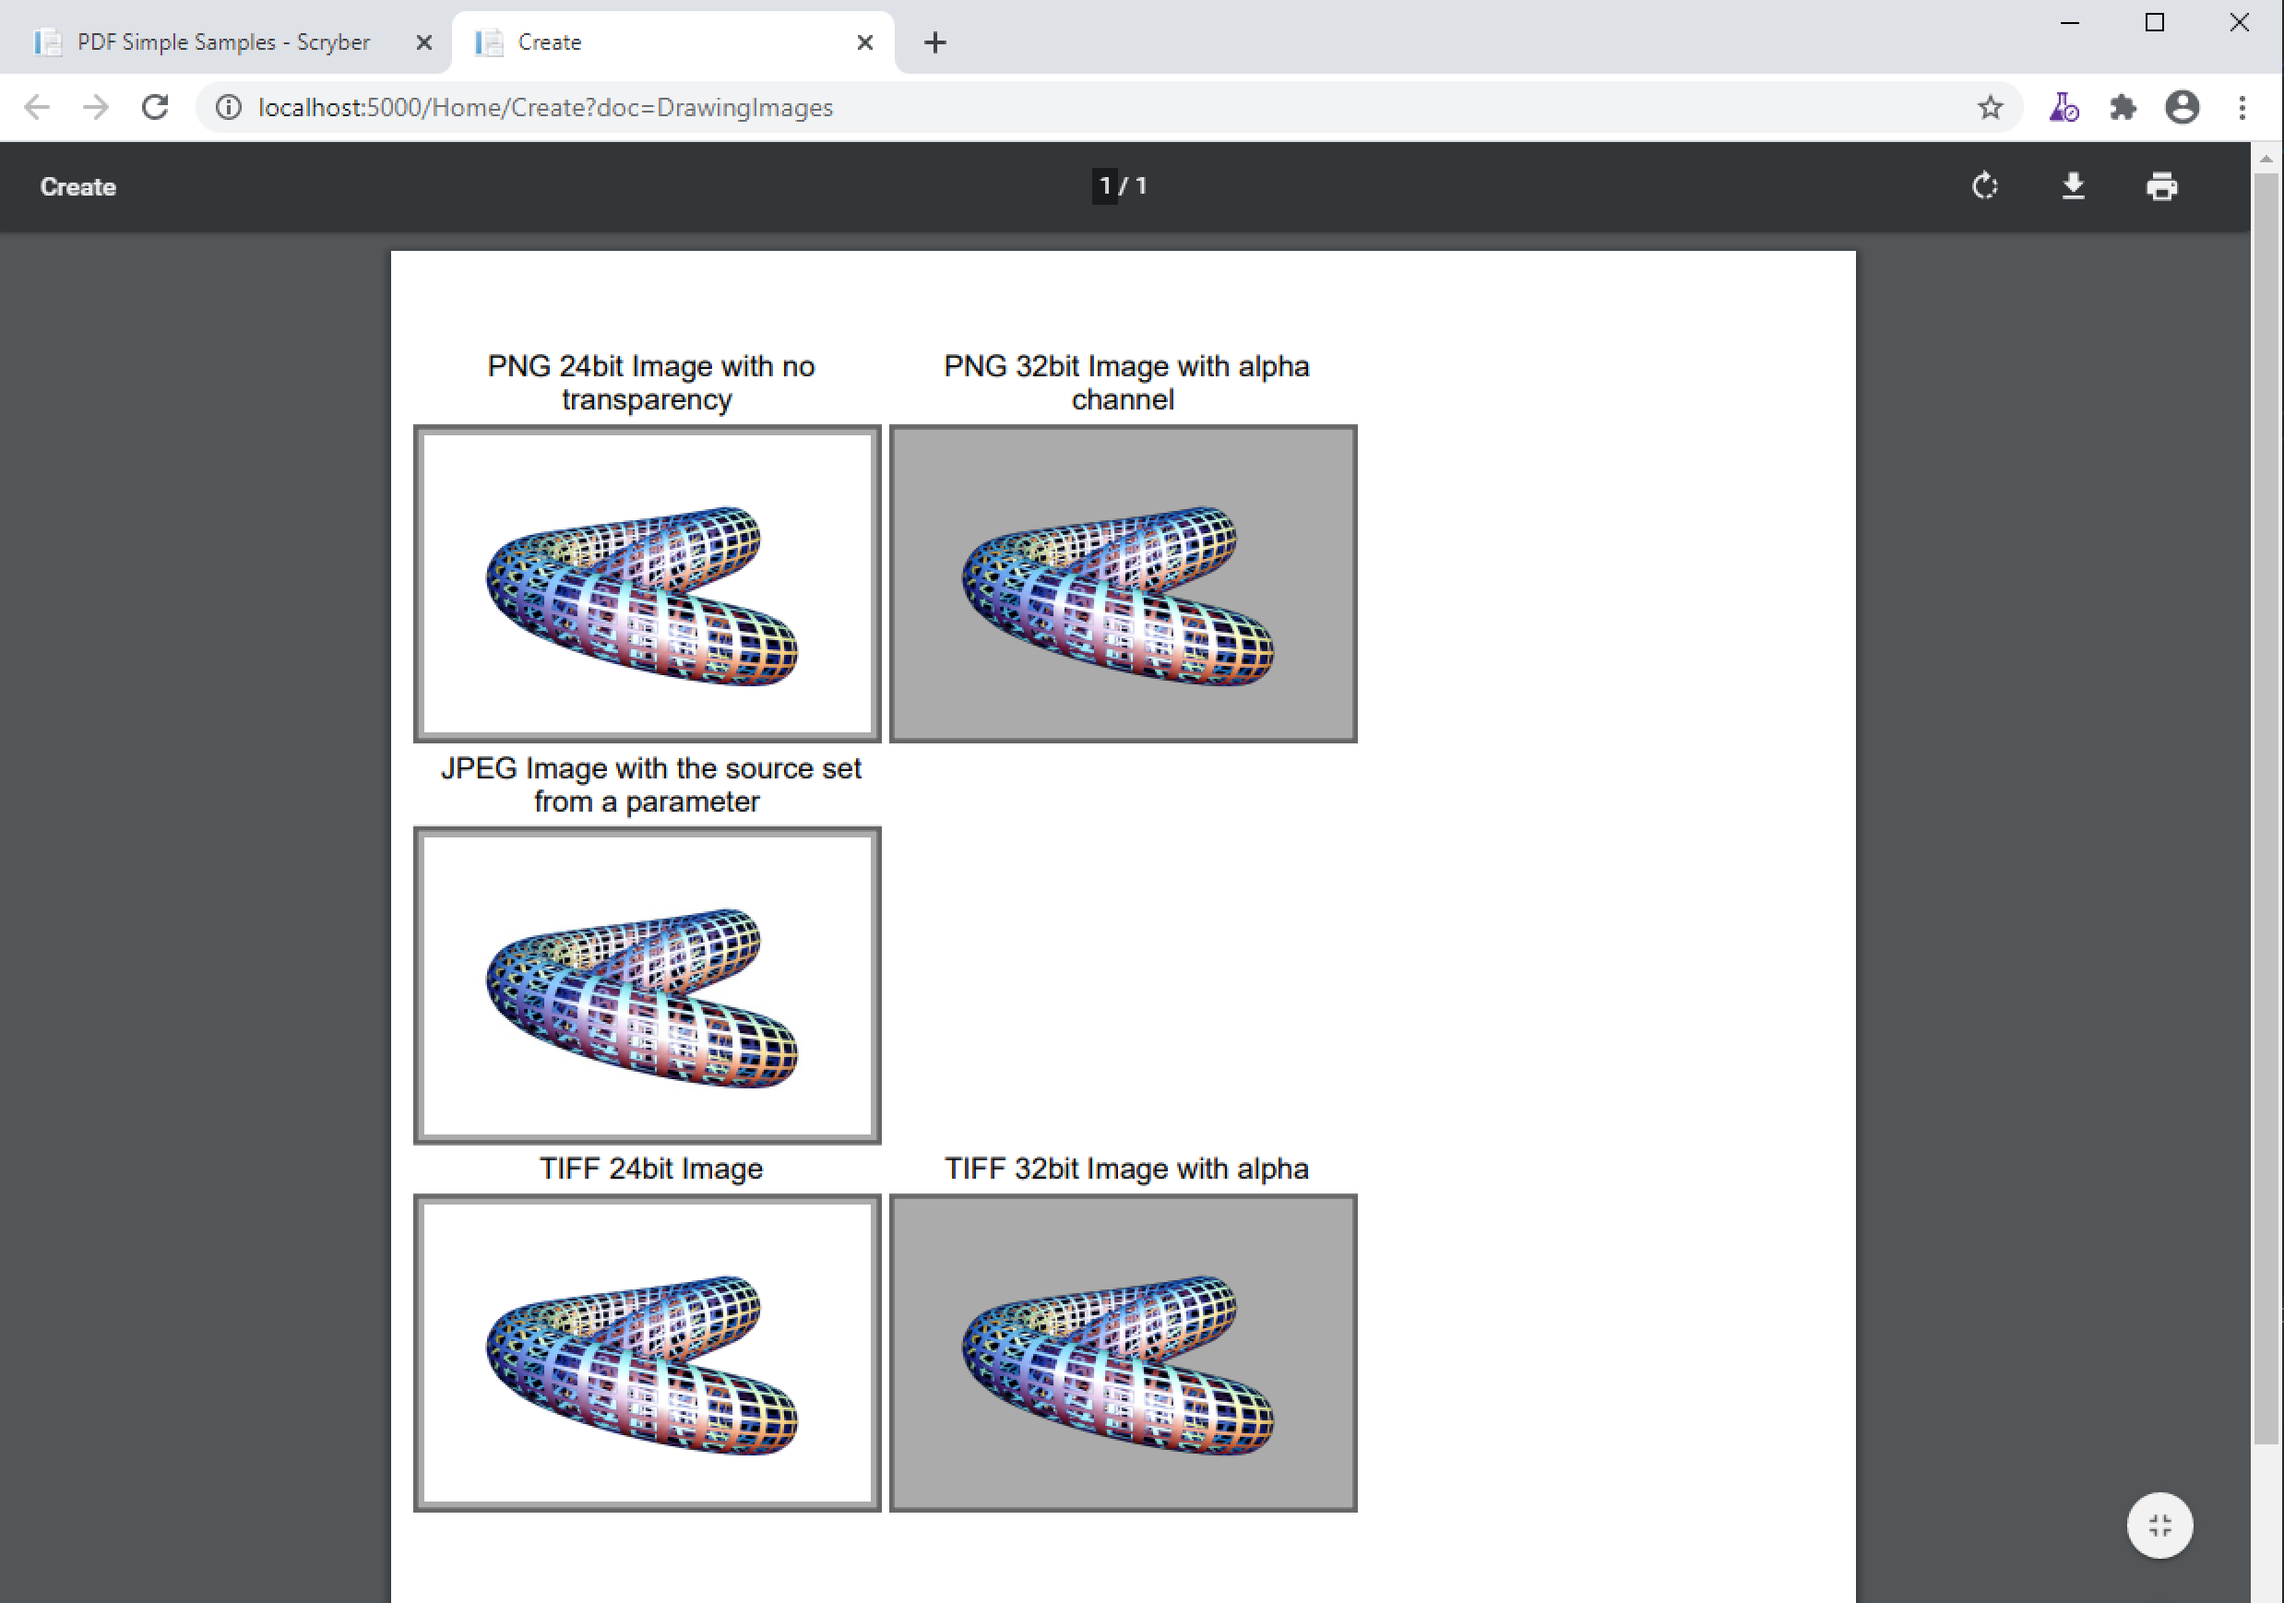
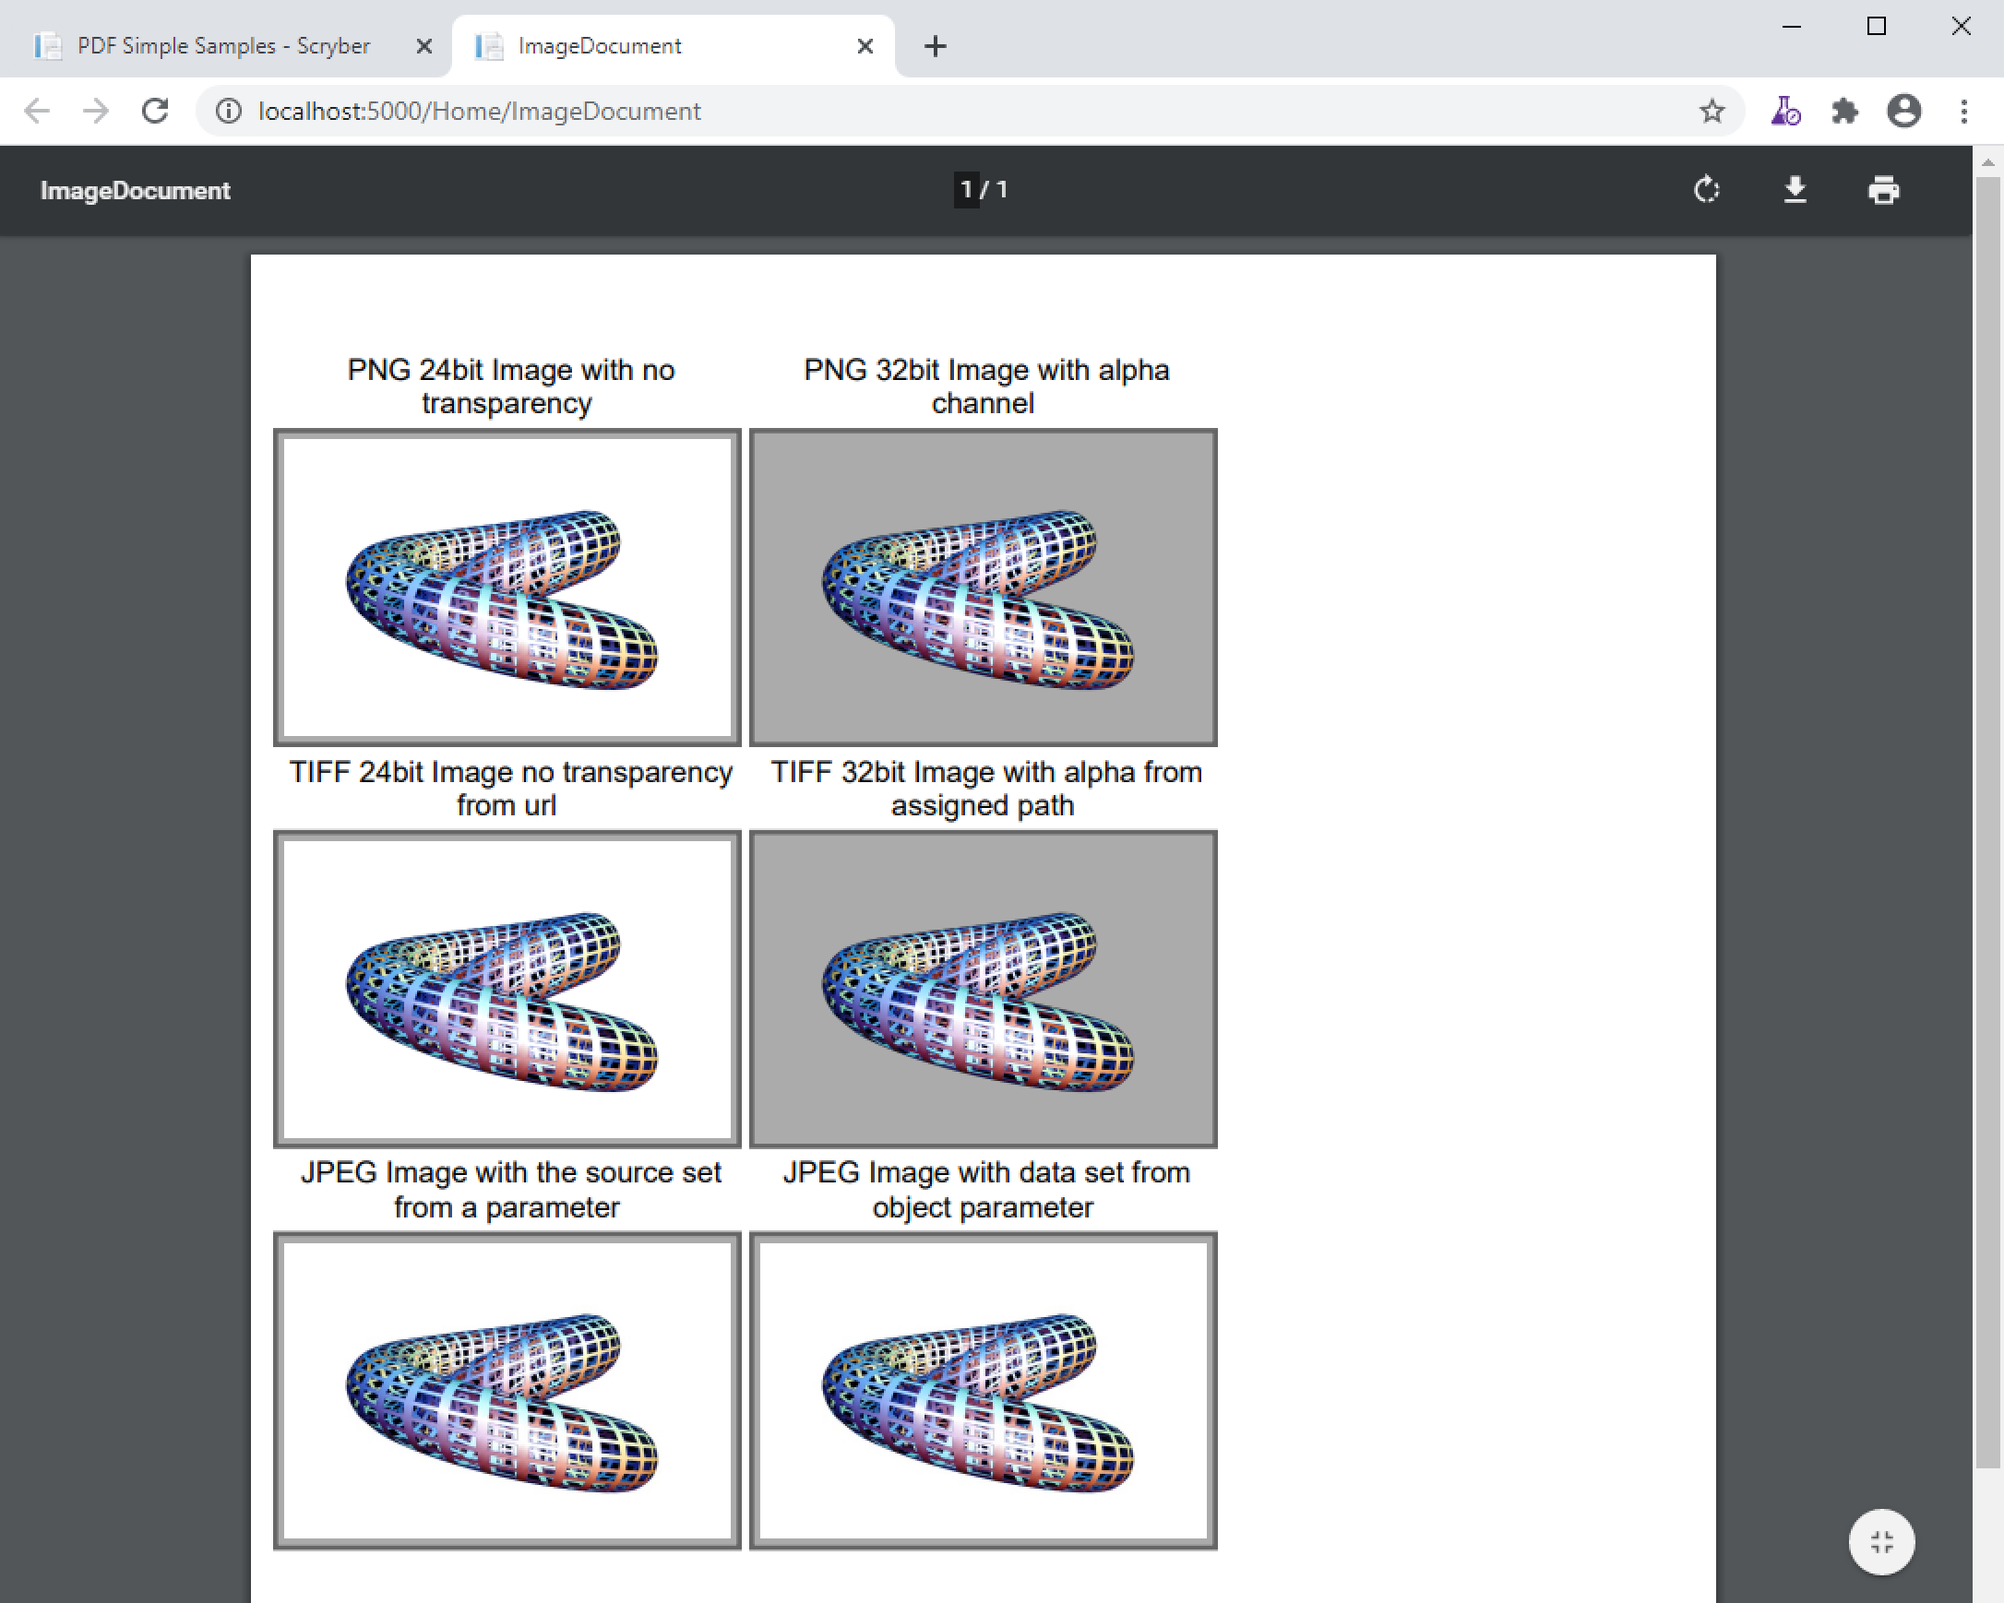
Image binding tests and updates to the image documents

diff --git a/Scryber.Core.UnitTest/Binding/ImageBinding_Test.cs b/Scryber.Core.UnitTest/Binding/ImageBinding_Test.cs
@@ -1,10 +1,84 @@
 using System;
-namespace Scryber.UnitTests.Binding
+using System.Net.WebSockets;
+using Microsoft.Extensions.Configuration;
+using Microsoft.VisualStudio.TestTools.UnitTesting;
+using Scryber.Components;
+
+namespace Scryber.Core.UnitTests.Binding
 {
+    [TestClass()]
     public class ImageBinding_Test
     {
+
+        private TestContext testContextInstance;
+
+        /// <summary>
+        ///Gets or sets the test context which provides
+        ///information about and functionality for the current test run.
+        ///</summary>
+        public TestContext TestContext
+        {
+            get
+            {
+                return testContextInstance;
+            }
+            set
+            {
+                testContextInstance = value;
+            }
+        }
+
+
         public ImageBinding_Test()
         {
+        }
+
+        [TestMethod]
+        public void ImageParamerterBinding()
+        {
+
+            var pdfx = @"<?xml version='1.0' encoding='utf-8' ?>
+<pdf:Document xmlns:pdf='http://www.scryber.co.uk/schemas/core/release/v1/Scryber.Components.xsd'
+              xmlns:styles='http://www.scryber.co.uk/schemas/core/release/v1/Scryber.Styles.xsd'
+              xmlns:data='http://www.scryber.co.uk/schemas/core/release/v1/Scryber.Data.xsd' >
+  <Params>
+    <pdf:Object-Param id='MyImage' />
+  </Params>
+  <Pages>
+
+    <pdf:Page styles:margins='20pt'>
+      <Content>
+        <pdf:Image id='LoadedImage' img-data='{@:MyImage}' />
+        
+      </Content>
+    </pdf:Page>
+  </Pages>
+
+</pdf:Document>";
+
+            using (var reader = new System.IO.StringReader(pdfx))
+            {
+                var doc = PDFDocument.ParseDocument(reader, ParseSourceType.DynamicContent);
+
+                var path = this.TestContext.TestDir;
+
+                // back up from obj/Debug/TestDirectoryName
+                path = System.IO.Path.Combine(path, "../../../Content/Toroid24.jpg");
+
+                var data = Scryber.Drawing.PDFImageData.LoadImageFromLocalFile(doc, doc, path);
+                doc.Params["MyImage"] = data;
+
+                var img = doc.FindAComponentById("LoadedImage") as PDFImage;
+                Assert.IsNull(img.Data);
+
+                doc.InitializeAndLoad();
+                doc.DataBind();
+
+                
+                Assert.IsNotNull(img.Data);
+                Assert.AreEqual(data, img.Data);
+
+            }
         }
     }
 }

diff --git a/Scryber.Core.UnitTest/Configuration/SetConfig_Test.cs b/Scryber.Core.UnitTest/Configuration/SetConfig_Test.cs
@@ -3,7 +3,7 @@ using Microsoft.VisualStudio.TestTools.UnitTesting;
 using Microsoft.Extensions.Configuration;
 using System.IO;
 
-namespace Scryber.UnitTests.Configuration
+namespace Scryber.Core.UnitTests.Configuration
 {
     /// <summary>
     /// Tests the configuration with any appsettings.json

diff --git a/Scryber.Core.UnitTest/Generation/TableHead_Test.cs b/Scryber.Core.UnitTest/Generation/TableHead_Test.cs
@@ -6,7 +6,7 @@ using System.Threading.Tasks;
 using Microsoft.VisualStudio.TestTools.UnitTesting;
 using Scryber.Components;
 
-namespace Scryber.UnitTests.Generation
+namespace Scryber.Core.UnitTests.Generation
 {
     [TestClass()]
     public class TableHead_Test

diff --git a/Scryber.Core.UnitTest/Configuration/BaseConfig_Test.cs b/Scryber.Core.UnitTest/Configuration/BaseConfig_Test.cs
@@ -1,7 +1,7 @@
 using System;
 using Microsoft.VisualStudio.TestTools.UnitTesting;
 
-namespace Scryber.UnitTests.Configuration
+namespace Scryber.Core.UnitTests.Configuration
 {
     /// <summary>
     /// Tests the configuration without any appsettings.json

diff --git a/docs/drawing_images.rst b/docs/drawing_images.rst
@@ -12,11 +12,10 @@ Scryber supports most standard image types, including the following.
 Adding an image to the output is as simple as putting an `<pdf:Image src='[path]' />` in the template.
 If the image has an alpha channel this will automatically be applied to the image.
 
-Rendering an image.
+Image Source Paths.
 =============================
 
-
-Images paths can be referenced relative to the file path of the parsed document.
+THe source for an image path can be referenced relative to the current file being parsed.
 
 e.g. ../../Content/images/filename.ext
 
@@ -25,9 +24,66 @@ Or it can be the full url or full file path to the image.
 e.g. http://localhost:5000/images/Toroid32.tiff
 
 
-The path can even be specified in a parameter.
-
 .. note:: If the image component is declared on a file referenced from the document, then the image path should still be relative to the file where the image component is declared. Not the top level document. 
+
+Explicit image data
+===================
+
+Data can be set on the image explicitly when loaded, using the Scryber.Drawing.PDFImageData class.
+This class has a range of static methods to load the images from existing bitmaps, local files or streams.
+
+And the image data can then be assigned to an image component directly, or via an object parameter
+
+Image Sizing
+============
+
+Without an explicit size the images will be rendered at the natural size, if it fits in the container. 
+
+If it does not fit in the container it will be reduced in size to fit. 
+See :doc:`component_sizing` for more about sizing images with widths and heights.
+
+
+Rendering Images
+=================
+
+Once the path or data are set, it's just a case of rendering the document in the normal way.
+
+.. code-block:: csharp
+
+        public IActionResult ImageDocument()
+        {
+            var root = _env.ContentRootPath;
+            var path = System.IO.Path.Combine(root, "Views", "PDF", "DrawingImages.pdfx");
+            path = System.IO.Path.GetFullPath(path);
+
+            using(var doc = PDFDocument.ParseDocument(path))
+            {
+                var images = System.IO.Path.Combine(root, "Content", "Images");
+                
+                //Set the source Directly
+                (doc.FindAComponentById("tiff32") as PDFImage).Source = System.IO.Path.Combine(images, "Toroid32.tiff");
+
+                //Set the source parameter
+                doc.Params["toroidPath"] = System.IO.Path.Combine(images, "Toroid24.jpg");
+
+                //Set the Image Data from another bitmap or file
+                var bmp = LoadImageBitmap();
+                var data = PDFImageData.LoadImageFromBitmap("DynamicJpeg", bmp, false);
+                doc.Params["toroidBin"] = data;
+
+                return this.PDF(doc);
+            }
+        }
+
+        private System.Drawing.Bitmap LoadImageBitmap()
+        {
+            //Example method that just return an image from a file
+            var path = _env.ContentRootPath;
+            path = System.IO.Path.Combine(path, "Content", "Images", "Toroid24.jpg");
+
+            return System.Drawing.Bitmap.FromFile(path) as System.Drawing.Bitmap;
+        }
+
 
 
 .. code-block:: xml
@@ -37,23 +93,26 @@ The path can even be specified in a parameter.
                 xmlns:styles="http://www.scryber.co.uk/schemas/core/release/v1/Scryber.Styles.xsd"
                 xmlns:data="http://www.scryber.co.uk/schemas/core/release/v1/Scryber.Data.xsd" >
     <Params>
+        <!-- Parameters for the path and binary data -->
         <pdf:String-Param value="../../Content/Images/Toroid24.jpg" id="toroidPath" />
+        <pdf:Object-Param id="toroidBin"/>
     </Params>
     <Styles>
         
-        <!-- Add a style to images -->
+        <!-- Add a style to images
+             with a background and border -->
         <styles:Style applied-type="pdf:Image" >
-            <styles:Border color="#666" style="Solid" width="2pt" />
-            <styles:Background color="#AAA"/>
-            <styles:Padding all="4pt"/>
-            <styles:Margins bottom="4pt" top="4pt"/>
+        <styles:Border color="#666" style="Solid" width="2pt" />
+        <styles:Background color="#AAA"/>
+        <styles:Padding all="4pt"/>
+        <styles:Margins bottom="4pt" top="4pt"/>
         </styles:Style>
 
         <!-- Div wrapper style -->
         <styles:Style applied-class="img-wrap">
-            <styles:Columns count="3" alley-width="5pt"/>
-            <styles:Font size="12pt"/>
-            <styles:Position h-align="Center"/>
+        <styles:Columns count="3" alley-width="5pt"/>
+        <styles:Font size="12pt"/>
+        <styles:Position h-align="Center"/>
         </styles:Style>
     </Styles>
     <Pages>
@@ -61,36 +120,38 @@ The path can even be specified in a parameter.
         <pdf:Page styles:padding="40 10 20 10" >
         <Content>
         
-            <pdf:Div styles:class="img-wrap" >
-                
-                <pdf:Span> PNG 24bit Image with no transparency</pdf:Span>
-                <pdf:Image src="../../Content/Images/Toroid24.png" />
-                <pdf:ColumnBreak/>
+        <pdf:Div styles:class="img-wrap" >
+            
+            <pdf:Span> PNG 24bit Image with no transparency</pdf:Span>
+            <pdf:Image src="../../Content/Images/Toroid24.png" />
+            <pdf:ColumnBreak/>
 
-                <pdf:Span> PNG 32bit Image with alpha channel</pdf:Span>
-                <pdf:Image src="../../Content/Images/Toroid32.png" />
-                <pdf:ColumnBreak/>
+            <pdf:Span> PNG 32bit Image with alpha channel</pdf:Span>
+            <pdf:Image src="../../Content/Images/Toroid32.png" />
 
-            </pdf:Div>
+        </pdf:Div>
 
-            <pdf:Div styles:class="img-wrap" >
+        <pdf:Div styles:class="img-wrap">
 
-                <pdf:Span> JPEG Image with the source set from a parameter</pdf:Span>
-                <pdf:Image src="{@:toroidPath}" />
-                <pdf:ColumnBreak/>
+            <pdf:Span> TIFF 24bit Image no transparency from url</pdf:Span>
+            <pdf:Image src="http://localhost:5000/images/Toroid24.tiff" />
+            <pdf:ColumnBreak/>
+            
+            <pdf:Span> TIFF 32bit Image with alpha from assigned path</pdf:Span>
+            <pdf:Image id="tiff32" />
 
-            </pdf:Div>
+        </pdf:Div>
 
-            <pdf:Div styles:class="img-wrap">
+        <pdf:Div styles:class="img-wrap" >
 
-                <pdf:Span> TIFF 24bit Image</pdf:Span>
-                <pdf:Image src="http://localhost:5000/images/Toroid24.tiff" />
-                <pdf:ColumnBreak/>
-                
-                <pdf:Span> TIFF 32bit Image with alpha</pdf:Span>
-                <pdf:Image src="http://localhost:5000/images/Toroid32.tiff" />
+            <pdf:Span> JPEG Image with the source set from a parameter</pdf:Span>
+            <pdf:Image src="{@:toroidPath}" />
+            <pdf:ColumnBreak/>
 
-            </pdf:Div>
+            <pdf:Span> JPEG Image with data set from object parameter</pdf:Span>
+            <pdf:Image img-data="{@:toroidBin}" />
+            
+        </pdf:Div>
         
         </Content>
         </pdf:Page>
@@ -98,11 +159,11 @@ The path can even be specified in a parameter.
     
     </pdf:Document>
 
+    
+
 .. image:: images/documentimagesformat.png
 
 
-Explicit image data
-===================
 
 
 Images as backgrounds
